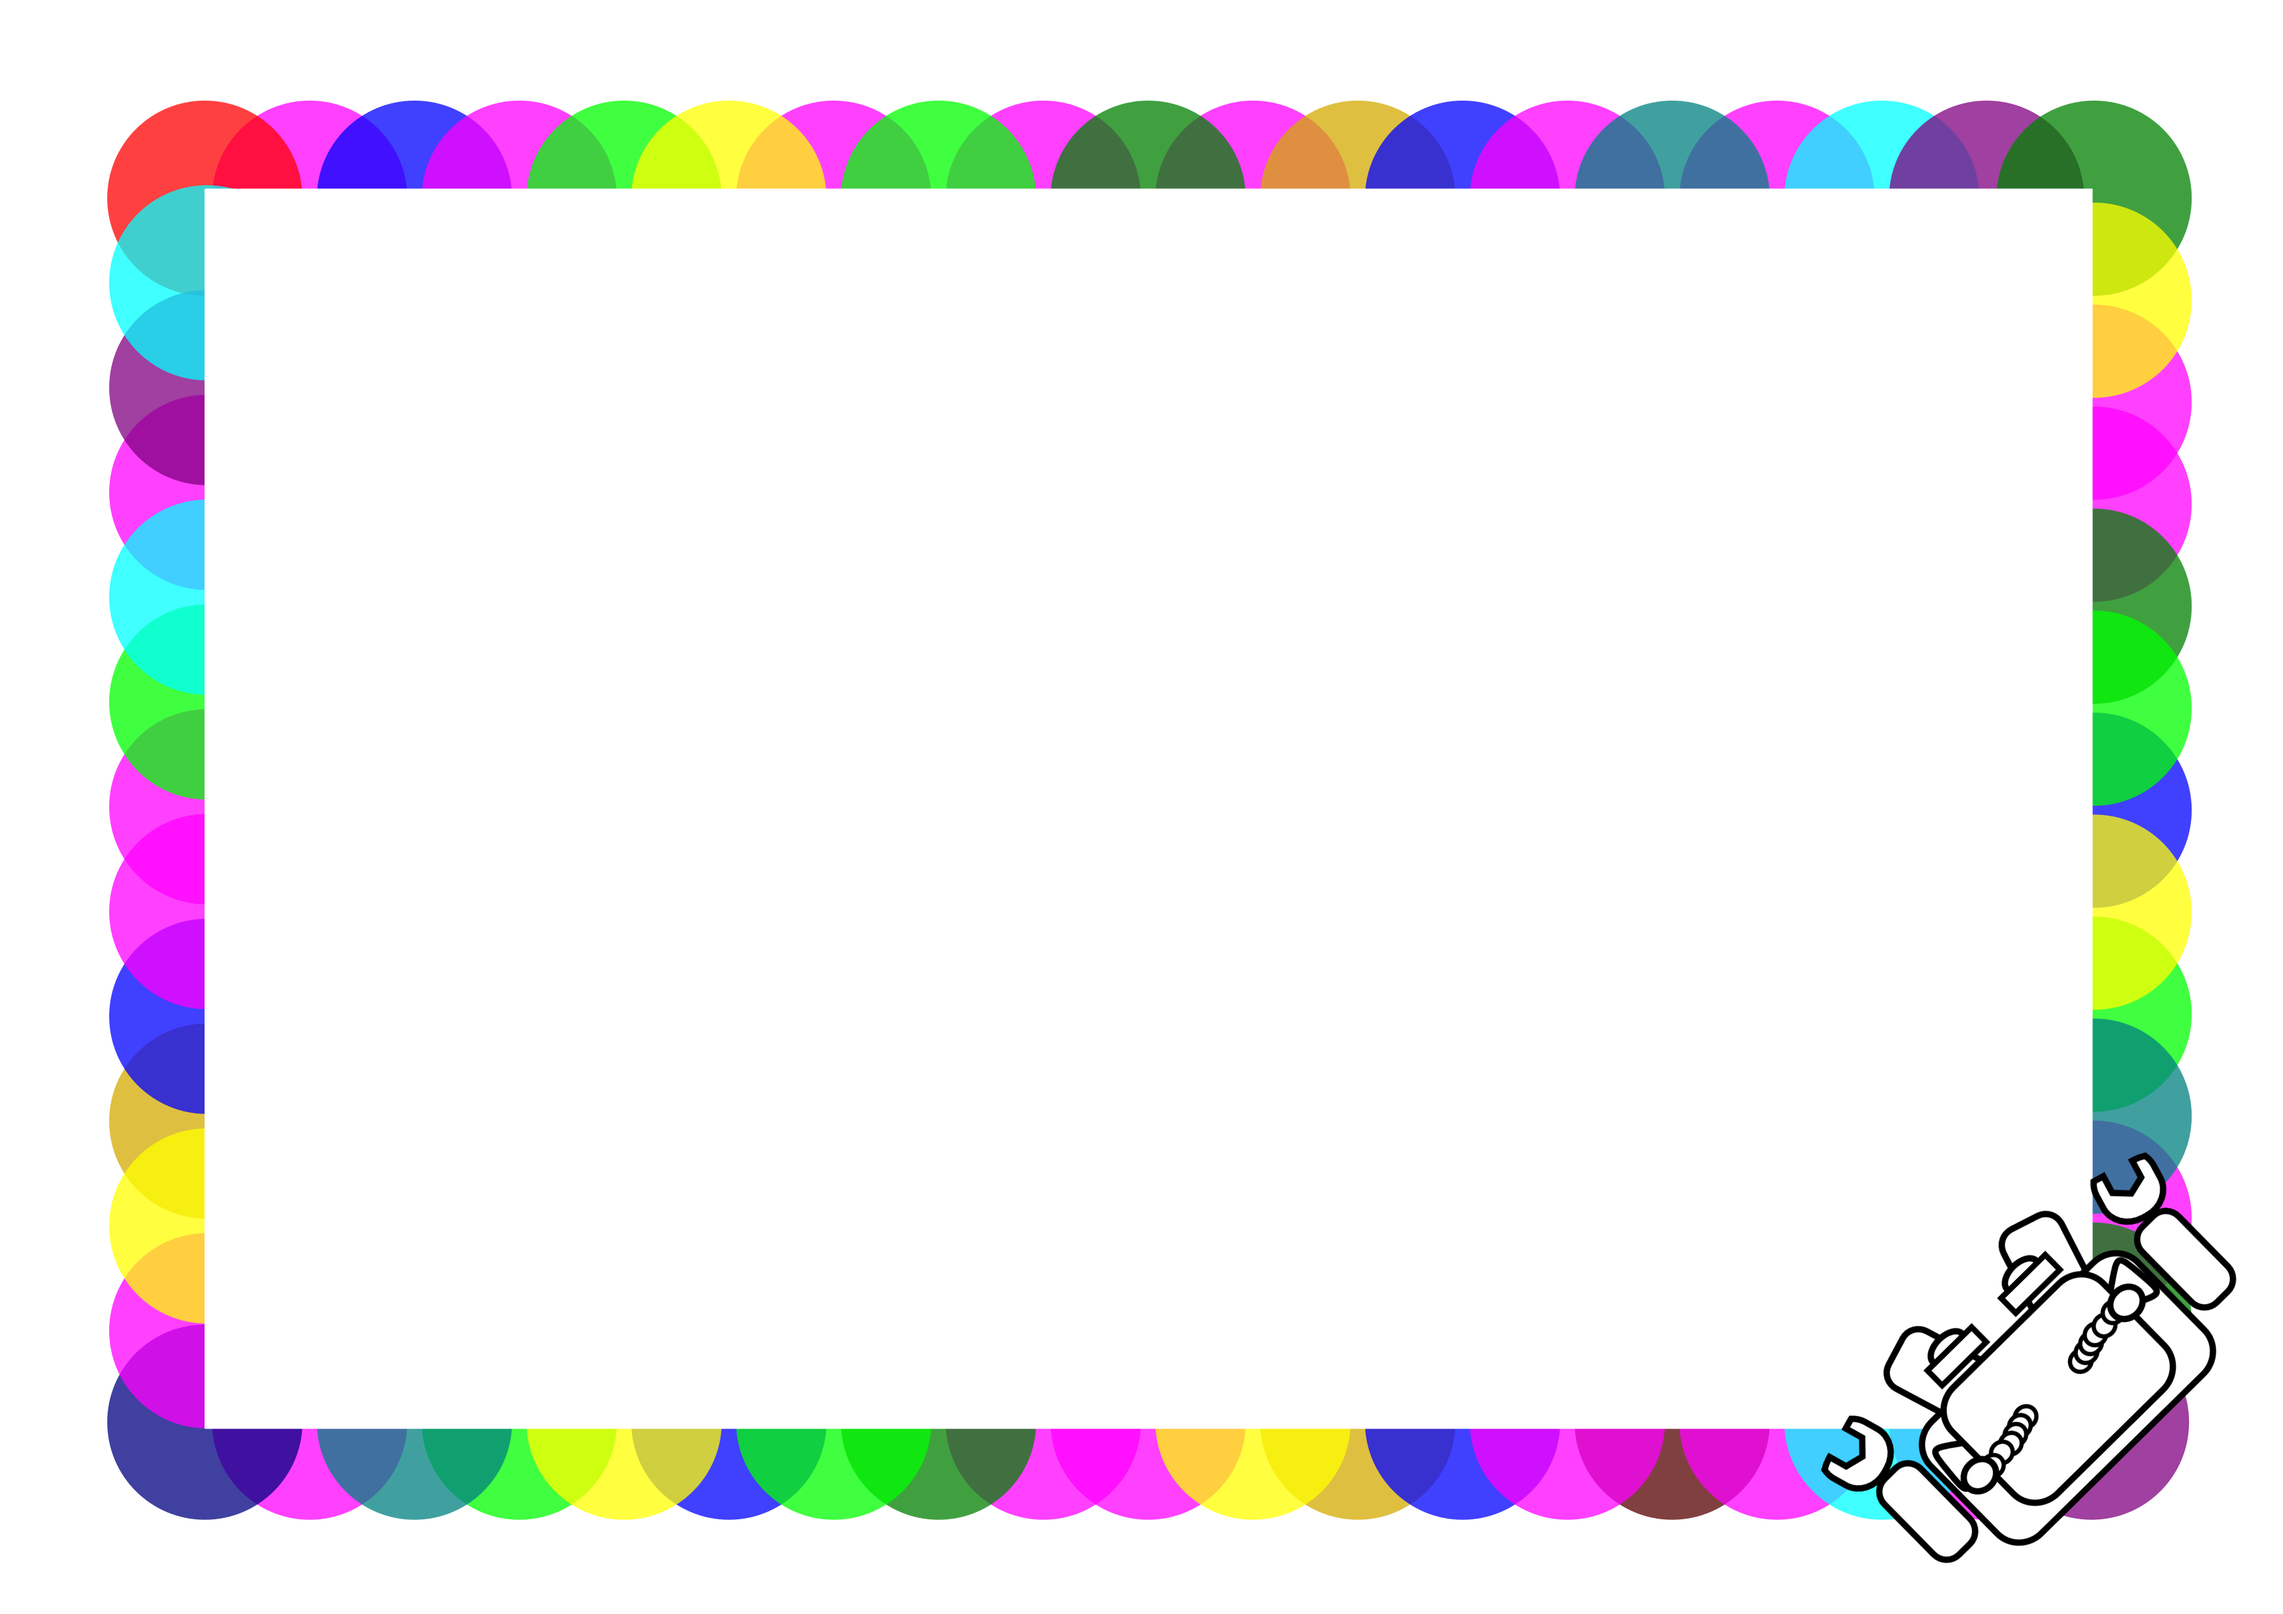
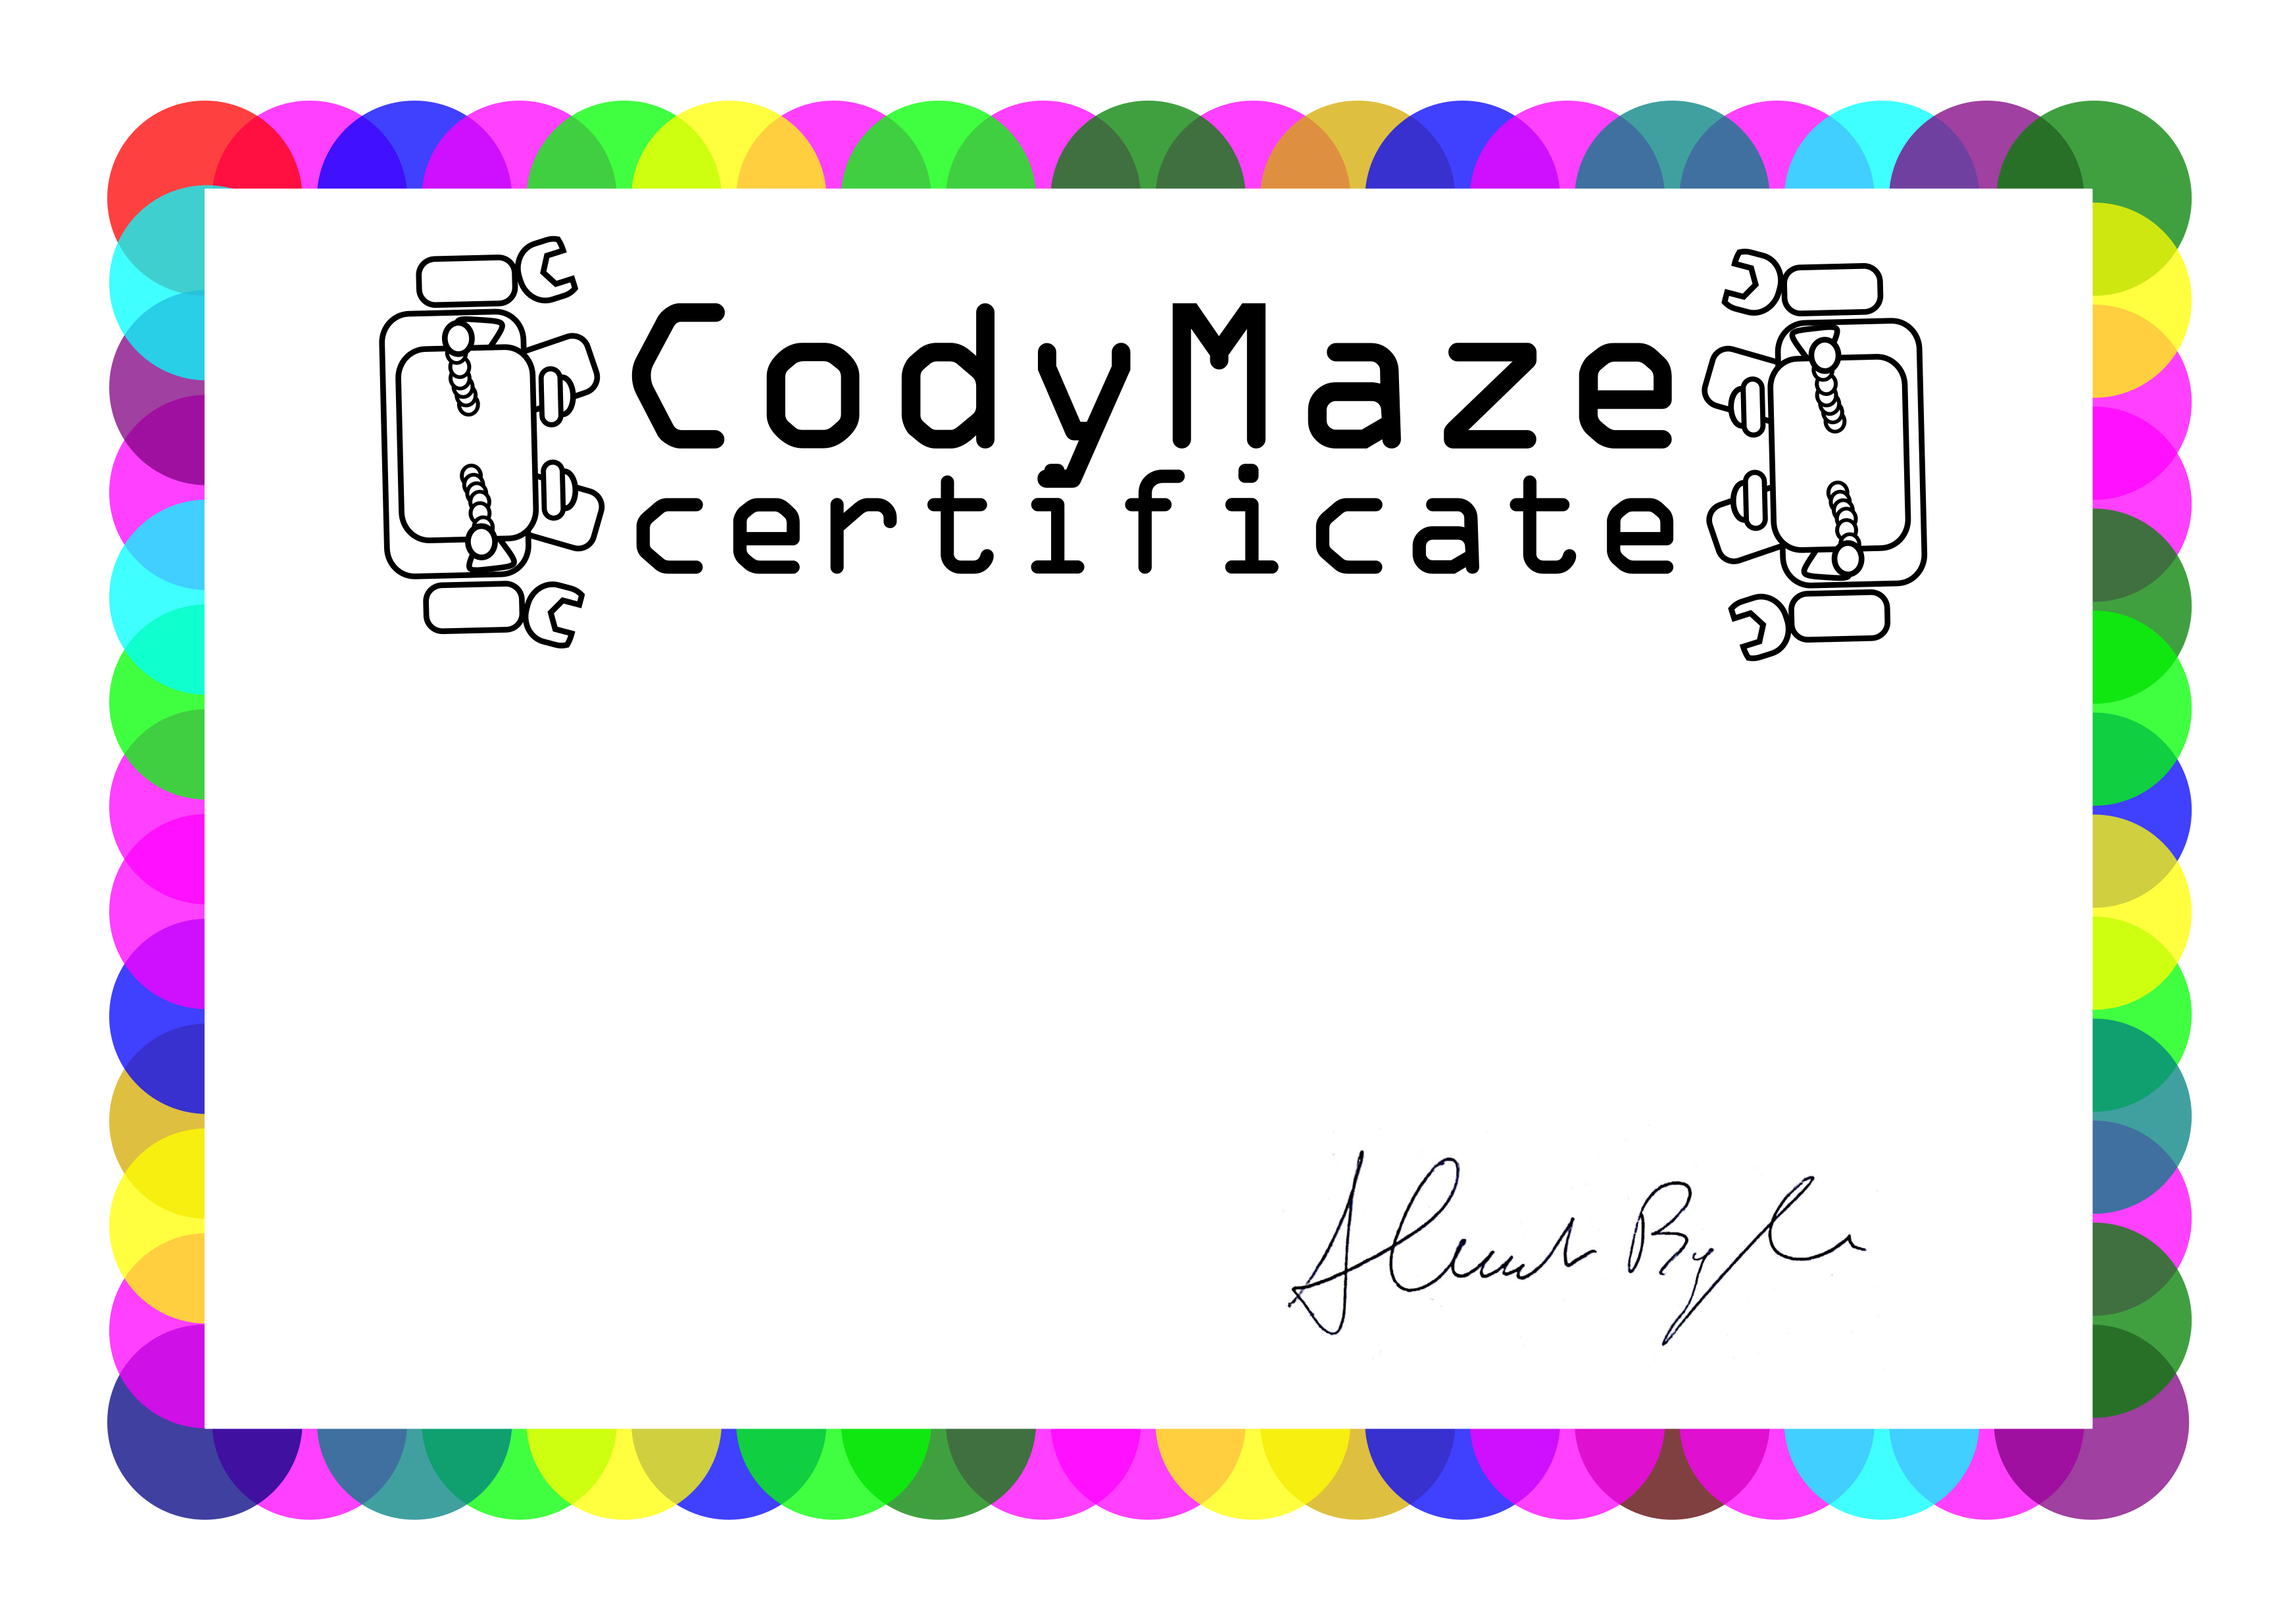
added layout and image for certificate

diff --git a/src/css/pdf-template.css b/src/css/pdf-template.css
@@ -5,5 +5,75 @@
     /*border: 10px solid #cf6cad;*/
     background-image: url("../images/codymaze.png");
     background-size: 1145px 770px;
-    color: #cf6cad;
+    color: black;
+}
+
+#container span {
+    display: block;
+}
+
+.spaced {
+    padding-top: 350px;
+    display: block;
+}
+
+.padded {
+    padding: 0px 150px 0px 150px;
+    display: block;
+}
+
+.font-10 {
+    font-size: 7px;
+}
+
+.font-15 {
+    font-size: 12px;
+}
+
+.font-20 {
+    font-size: 17px;
+}
+
+.font-25 {
+    font-size: 22px;
+}
+
+.font-30 {
+    font-size: 30px;
+    font-weight: bold;
+    color: black;
+    margin: 0.6em 0;
+}
+
+#container span:last-child {
+    margin: 0.6em 0 0 0;
+}
+
+#signature {
+    padding-left: 670px;
+    text-align: left;
+}
+
+/* unvisited link */
+a:link {
+    color: black;
+}
+
+/* visited link */
+a:visited {
+    color: black;
+}
+
+/* mouse over link */
+a:hover {
+    color: black;
+}
+
+/* selected link */
+a:active {
+    color: black;
+}
+
+@media print {
+
 }

diff --git a/src/htmltopdf.php b/src/htmltopdf.php
@@ -1,16 +1,17 @@
 <?php
+require __DIR__ . '/vendor/autoload.php';
 use Knp\Snappy\Pdf;
 
 function htmlToPdf($name) {
     $guid = GUID();
-    $date = date("Y-m-d H:i:s", time());
+    $date = date("Y-m-d", time());
 
     require "pdf-template.php"; // Needed to generate static HTML page - Snappy won't read .php files
 
     // Prepare pdf generator
     //$snappy = new Pdf('/usr/local/bin/wkhtmltopdf');
-    $snappy = new Pdf('wkhtmltopdf');
-    //$snappy = new Pdf('wkhtmltox/bin/wkhtmltopdf');
+    //$snappy = new Pdf('wkhtmltopdf');
+    $snappy = new Pdf('wkhtmltox/bin/wkhtmltopdf');
     $snappy->setOption('orientation', 'Landscape');
     $snappy->setOption('page-size', 'A4');
     $snappy->setOption('no-pdf-compression', false);
@@ -53,3 +54,5 @@ function GUID()
 
     return sprintf('%04X%04X-%04X-%04X-%04X-%04X%04X%04X', mt_rand(0, 65535), mt_rand(0, 65535), mt_rand(0, 65535), mt_rand(16384, 20479), mt_rand(32768, 49151), mt_rand(0, 65535), mt_rand(0, 65535), mt_rand(0, 65535));
 }
+
+// to test: htmlToPdf("Brendan Paolini");

diff --git a/src/msg_processing_simple.php b/src/msg_processing_simple.php
@@ -11,7 +11,6 @@
 require_once('data.php');
 require_once('maze_generator.php');
 require_once('maze_commands.php');
-require __DIR__ . '/vendor/autoload.php';
 
 // This file assumes to be included by pull.php or
 // hook.php right after receiving a new Telegram update.
@@ -91,7 +90,7 @@ if(isset($update['message'])) {
 
             // Send maze
             // TODO: set correct text
-            telegram_send_message($chat_id, "Segui queste indicazioni per risolvere il prossimo passo e scansiona il QRCode all'arrivo:\n\n {$maze_message}.");
+            telegram_send_message($chat_id, "Segui queste indicazioni per risolvere il prossimo passo e scansiona il QRCode all'arrivo:\n\n <code>{$maze_message}</code>.");
         }
         else {
             Logger::error("Invalid callback data: {$callback_data}");

diff --git a/src/pdf-template.php b/src/pdf-template.php
@@ -10,10 +10,10 @@ ob_start();
     <body>
 
     <div id="container">
+        <span class="spaced font-20">Questo certificato attesta che</span>
         <span class="font-30"><?= $name ?></span>
-        <span class="font-30"><?= $date ?></span>
-        <span class="font-30"><?= $guid ?></span>
-
+        <span class="font-20 padded">ha concluso con successo l'attività dell'ora di coding con CodyMaze sperimentando le istruzioni elementari, le istruzioni in sequenza, le condizioni, le ripetizioni e le ripetizioni condizionate.</span>
+        <span class="font-20 padded">Questo certificato, rilasciato in data <?= $date ?>, ha l'identificativo <?= $guid ?></span>
     </div>
 
     </body>
